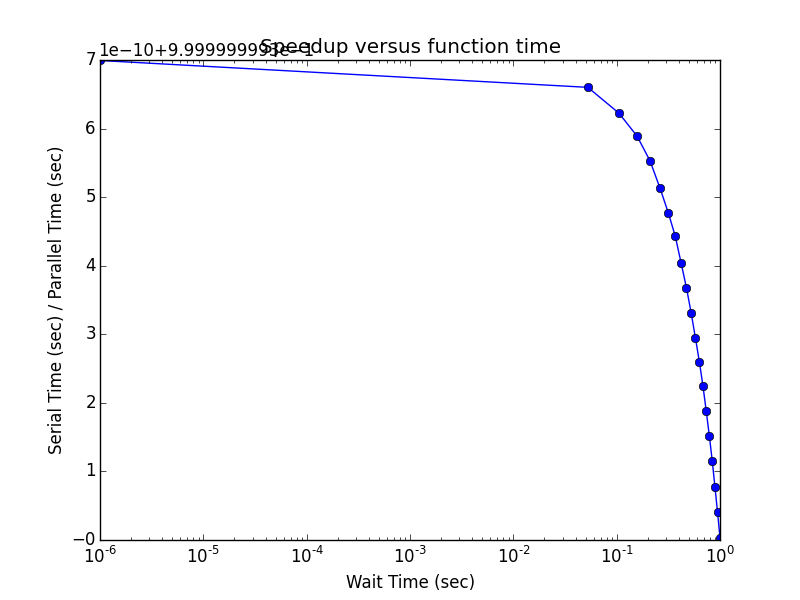
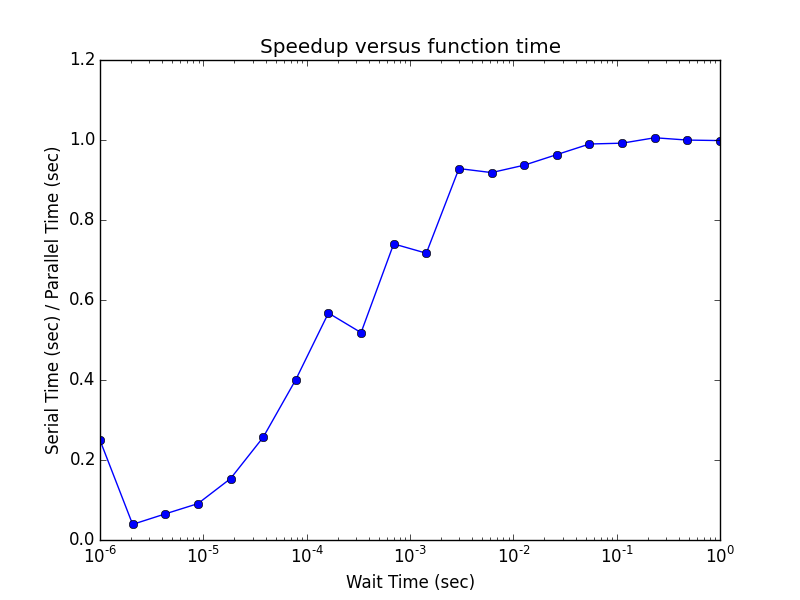
A couple of changes, most particularly to my responses for P6 where I finally learned how to correctly use pool.map(..)

diff --git a/HW0/P6/P6B.py b/HW0/P6/P6B.py
@@ -17,18 +17,21 @@ if __name__ == '__main__':
 
     # Use a variety of wait times
     ratio = []
-    wait_time = np.linspace(10**-6,1,20)
+    wait_time = np.logspace(-6, 0, 20)
 
     for t in wait_time:
-         # Compute jobs serially and in parallel
+         
+         # Serial Loop
+         time_start = time.time()
          for ii in range(N):
               burnTime(t)
-        
-         # Use time.time() to compute the elapsed time for each
-         serialTime = 1 + time.time()
-        
-         results = pool.map(burnTime(t), range(N))
-         parallelTime = 1 + time.time()
+         serialTime = time.time() - time_start
+
+		 #Parallel loop
+         time_start = time.time()
+         for jj in range(N):
+             results = pool.map(burnTime(t), range(P))
+         parallelTime = time.time() - time_start
 
          # Compute the ratio of these times
          ratio.append(serialTime/parallelTime)
